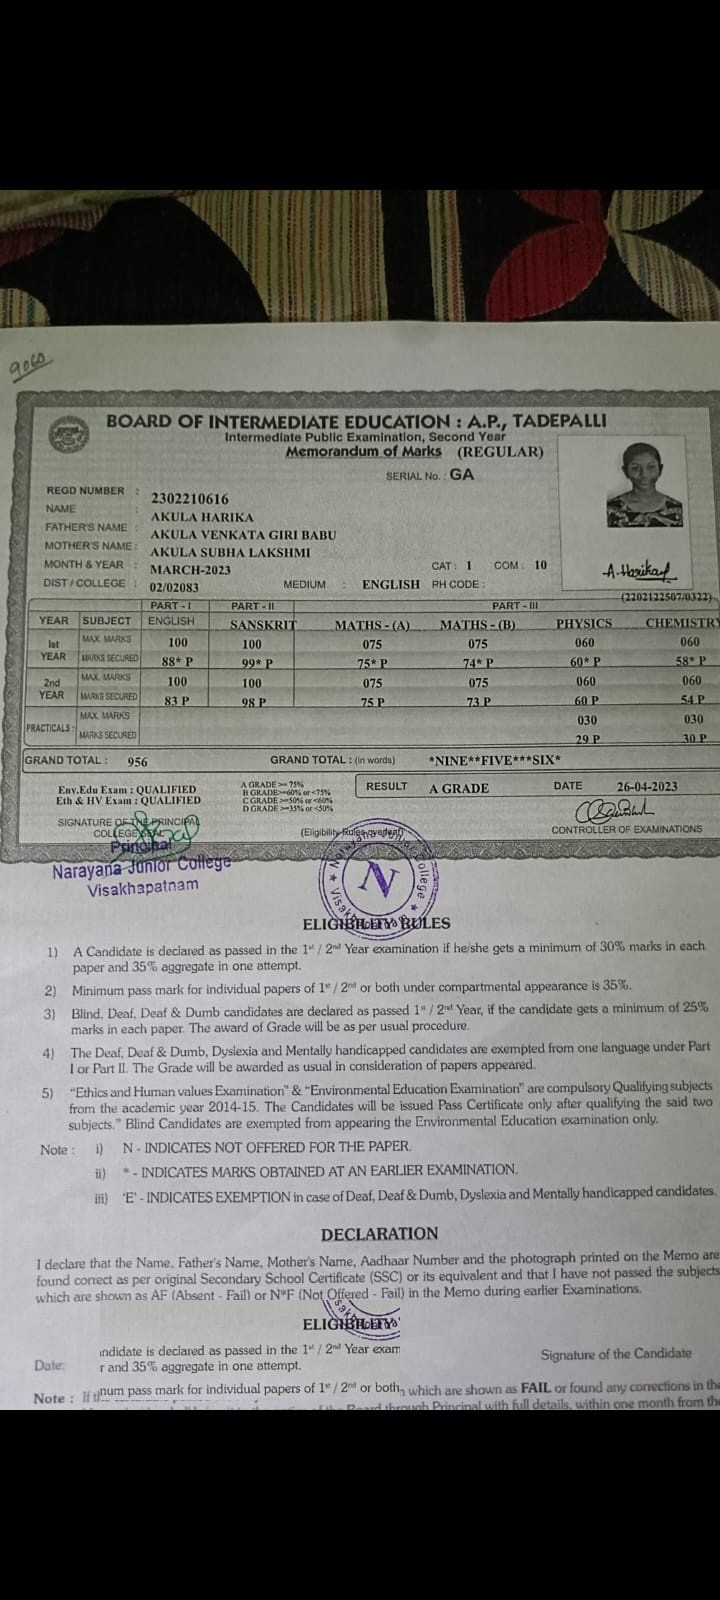
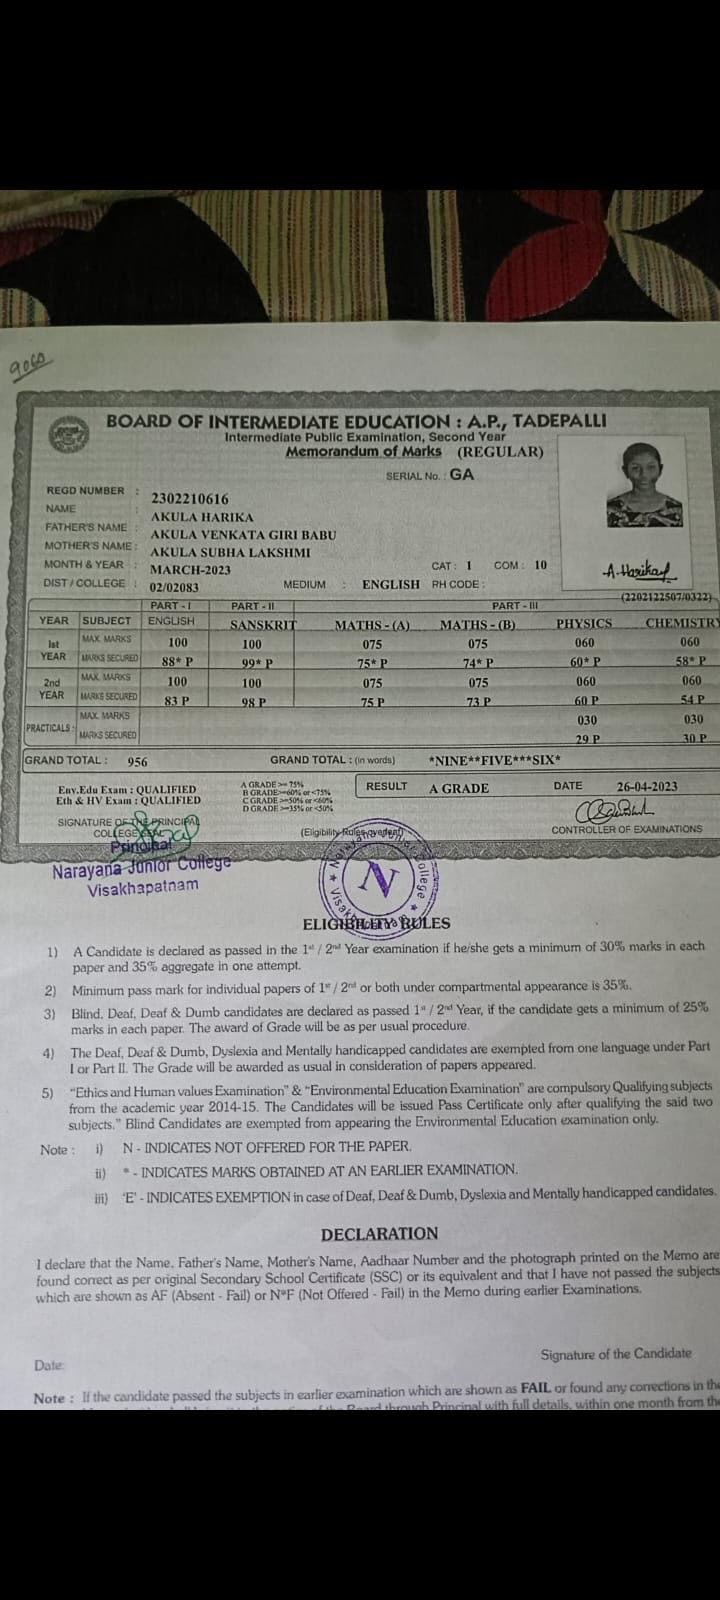
Add weighted scoring engine with hard-cap rules for serious findings

Changed region(s): [[0.1222, 0.8125, 0.55, 0.875]]

diff --git a/forensics_module/scoring_engine.py b/forensics_module/scoring_engine.py
@@ -1,0 +1,73 @@
+WEIGHTS = {
+    "logic_check_fail": 0.25,
+    "seal_missing": 0.15,
+    "signature_missing": 0.10,
+    "font_inconsistent": 0.15,
+    "ela_suspicious": 0.15,
+    "copy_move_detected": 0.15,
+    "metadata_suspicious": 0.05,
+}
+
+def compute_score(logic_check_result, structural, ela_result, copy_move_result, metadata_result):
+    """
+    Combines Person 3's field-validation result with our own forensic signals
+    into one final authenticity score (1.0 = fully clean, 0.0 = maximally flagged).
+    """
+    penalty = 0.0
+    reasons = []
+
+    if logic_check_result.get("status") != "PASS":
+        penalty += WEIGHTS["logic_check_fail"]
+        reasons.append("Field/logic validation failed (e.g. marks or date mismatch).")
+
+    if not structural["seal"]["seal_present"]:
+        penalty += WEIGHTS["seal_missing"]
+        reasons.append("No seal/stamp detected.")
+
+    if not structural["signature"]["signature_likely"]:
+        penalty += WEIGHTS["signature_missing"]
+        reasons.append("No signature region detected.")
+
+    if not structural["font"]["consistent"]:
+        penalty += WEIGHTS["font_inconsistent"]
+        reasons.append("Inconsistent font sizing/spacing across the document.")
+
+    if ela_result["suspicious_regions_present"]:
+        penalty += WEIGHTS["ela_suspicious"]
+        reasons.append("Error Level Analysis found abnormal compression patterns.")
+
+    if copy_move_result["copy_move_detected"]:
+        penalty += WEIGHTS["copy_move_detected"]
+        reasons.append("Possible copy-move/splicing detected within the document.")
+
+    if metadata_result.get("suspicious") or metadata_result.get("modified_after_creation"):
+        penalty += WEIGHTS["metadata_suspicious"]
+        reasons.append("Document metadata suggests post-creation editing.")
+
+    score = round(max(0.0, 1.0 - penalty), 3)
+
+    # Certain findings are serious enough to cap the score outright — a single
+    # strong red flag shouldn't be "averaged away" by otherwise-clean checks.
+    hard_cap = 1.0
+    if copy_move_result["copy_move_detected"]:
+        hard_cap = min(hard_cap, 0.60)
+    if ela_result["suspicious_regions_present"]:
+        hard_cap = min(hard_cap, 0.60)
+    if logic_check_result.get("status") != "PASS":
+        hard_cap = min(hard_cap, 0.60)
+
+    score = min(score, hard_cap)
+
+    if score >= 0.75:
+        label = "Valid"
+    elif score >= 0.45:
+        label = "Suspicious"
+    else:
+        label = "Likely Forged"
+
+
+    return {
+        "authenticity_score": score,
+        "label": label,
+        "explanation": reasons if reasons else ["No issues detected across structural, forensic, or metadata checks."],
+    }

diff --git a/forensics_module/test_scoring.py b/forensics_module/test_scoring.py
@@ -1,0 +1,26 @@
+import cv2
+from structural_checks import detect_seal_stamp, detect_signature_region, check_font_spacing_consistency, detect_letterhead
+from ela import error_level_analysis
+from copy_move import detect_copy_move
+from metadata_forensics import analyze_metadata
+from scoring_engine import compute_score
+
+image_path = r"D:\cert-validity-checker\ocr_module\sample_docs\inter_sample.jpg"
+image = cv2.imread(image_path)
+
+seal = detect_seal_stamp(image)
+structural = {
+    "seal": seal,
+    "signature": detect_signature_region(image, seal_region=seal["regions"][0] if seal["regions"] else None),
+    "font": {"consistent": True},  # placeholder — real OCR words needed for this one
+    "letterhead": detect_letterhead(image),
+}
+
+ela_result = error_level_analysis(image_path)
+copy_move_result = detect_copy_move(image)
+metadata_result = analyze_metadata(image_path)
+
+fake_logic_check = {"status": "PASS"}  # placeholder for Person 3's real output
+
+result = compute_score(fake_logic_check, structural, ela_result, copy_move_result, metadata_result)
+print(result)
